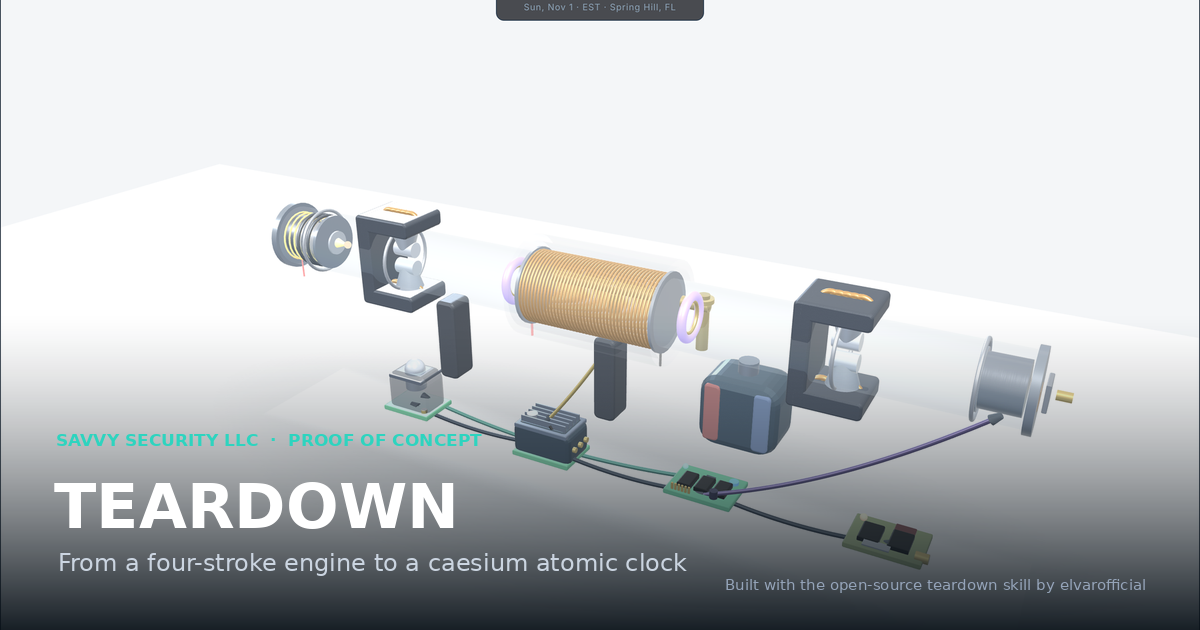
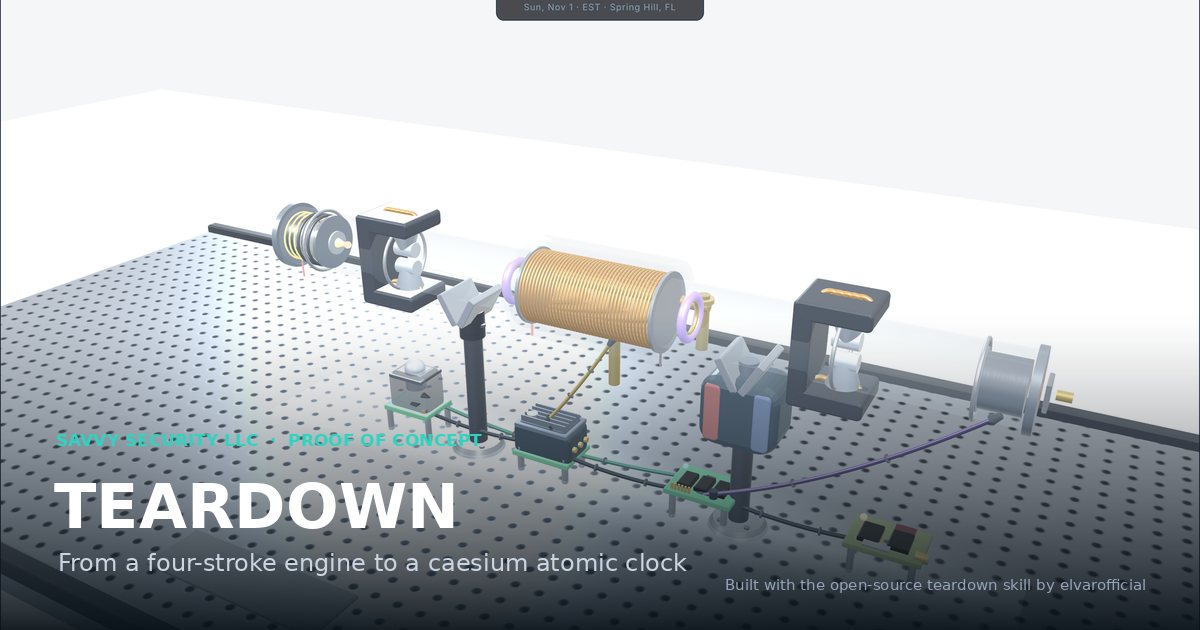
Architectural realism: optical bench, support frame, cabling, depth
Build out the structure the apparatus lives in, for real depth and
architectural realism:

- Aluminium optical breadboard (tapped-hole grid as colour + bump map)
  on a light room floor, with anodised edge rails
- Kinematic support towers: foot plate + bolts, post, post-holder and a
  V-saddle cradling the beam tube — replacing the old floating stands.
  They are fixtures, so parts lift out of them in the exploded view
- Hex standoff feet lifting each electronics module off the board
- Hex-head bolt detail on the vacuum end flanges
- Cable ties clamping every coax run at intervals
- Engraved spec nameplate on the bench
- Softer far fog for aerial depth without darkening the white backdrop
- Re-rendered all stills + OG cover; regenerated offline model + hosted
  standalone (verified offline, zero page errors)

Claude-Session: https://claude.ai/code/session_01YXoVwwxemi4SoJ6UT6wZSp

diff --git a/posts/teardown-engine-to-atomic-clock/code/atomic-clock-model.html b/posts/teardown-engine-to-atomic-clock/code/atomic-clock-model.html
@@ -343,7 +343,7 @@
   function build(){
     scene = new THREE.Scene();
     scene.background = new THREE.Color(0xf4f6f8);
-    scene.fog = new THREE.Fog(0xf4f6f8, 22, 48);
+    scene.fog = new THREE.Fog(0xf4f6f8, 26, 62);
     camera = new THREE.PerspectiveCamera(42,1,0.1,120);
     renderer = new THREE.WebGLRenderer({canvas:canvas, antialias:true, alpha:true});
     renderer.setClearColor(0xf4f6f8,1);
@@ -408,9 +408,8 @@
     var magB=mesh(rbox(0.2,0.9,0.95), MAT(0x2a3a5a,{metal:0.4,rough:0.5}),3.0,-1.3,0); root.add(magB);
     tag(magA,'vacuum','Pump magnets','Permanent magnets that spiral the ionising electrons, boosting the pump efficiency.');
     tag(magB,'vacuum','Pump magnets','Permanent magnets that spiral the ionising electrons, boosting the pump efficiency.');
-    var stA=mesh(rbox(0.3,1.4,0.5), MAT(0x2a2e34,{rough:0.6}),-3,-1.35,0); root.add(stA);
-    var stB=mesh(rbox(0.3,1.4,0.5), MAT(0x2a2e34,{rough:0.6}),0.2,-1.35,0); root.add(stB);
-    tag(stA,'vacuum','Support stand','Rigid stand isolating the tube from floor vibration.'); tag(stB,'vacuum','Support stand','Rigid stand isolating the tube from floor vibration.');
+    // kinematic support towers rising from the breadboard to cradle the beam tube
+    root.add(vmount(-2.6)); root.add(vmount(2.6));
     // flush weld collars where modules join the tube
     [-5.9,-4,4,5.9].forEach(function(cx){ var cc=mesh(new THREE.TorusGeometry(0.57,0.03,14,40), MAT(0x9aa0a8,{metal:0.8,rough:0.3}),cx,0,0); cc.rotation.y=Math.PI/2; root.add(cc); tag(cc,'vacuum','Weld collar','A vacuum-tight collar where a module joins the beam tube.'); });
 
@@ -436,9 +435,32 @@
     root.add(coax(6.2,-0.4,0.25, 2,-3,0.25, 0.5, 0x3a2f5a, 0.035));   // detector -> servo (signal)
     root.add(coax(2,-3,-0.25, -4,-3,-0.25, 0.55, 0x2f6a5a, 0.035));   // servo -> xo (correction)
 
-    // lab-bench floor
-    var floor=new THREE.Mesh(new THREE.PlaneGeometry(46,24), new THREE.MeshStandardMaterial({color:0xe9edf2, roughness:0.45, metalness:0.0, envMapIntensity:0.9}));
-    floor.rotation.x=-Math.PI/2; floor.position.set(0,-3.54,0); floor.receiveShadow=true; root.add(floor);
+    // ---- lab bench: aluminium optical breadboard on a room floor (architectural base) ----
+    var bbTex=breadboardTex(); bbTex.repeat.set(5,2);
+    var bbMat=new THREE.MeshStandardMaterial({color:0xccd1d8, metalness:1.0, roughness:0.44, map:bbTex, bumpMap:bbTex, bumpScale:0.006}); bbMat.envMapIntensity=0.7;
+    var bbTop=new THREE.Mesh(new THREE.PlaneGeometry(34,13), bbMat);
+    bbTop.rotation.x=-Math.PI/2; bbTop.position.set(0,-3.54,0); bbTop.receiveShadow=true; root.add(bbTop);
+    var bbBody=new THREE.Mesh(new THREE.BoxGeometry(34,0.55,13), steel({color:0xb3b9c1,rough:0.5,surface:'brushed'})); bbBody.position.set(0,-3.825,0); bbBody.receiveShadow=true; root.add(bbBody);
+    // edge rails along the long sides for a finished, machined look
+    [-6.4,6.4].forEach(function(cz){ var rail=new THREE.Mesh(rbox(34,0.28,0.3,0.06), anodized({color:0x2a2f37})); rail.position.set(0,-3.5,cz); root.add(rail); });
+    // room floor beneath, kept light so the background stays bright
+    var floor=new THREE.Mesh(new THREE.PlaneGeometry(80,46), new THREE.MeshStandardMaterial({color:0xeef1f5, roughness:0.5, metalness:0.0, envMapIntensity:0.6}));
+    floor.rotation.x=-Math.PI/2; floor.position.set(0,-4.12,0); floor.receiveShadow=true; root.add(floor);
+    // hex-bolt detail on the vacuum end flanges + engraved spec plate on the bench
+    [-6.6,6.6].forEach(function(fx){ for(var k=0;k<6;k++){ var a=k*Math.PI/3+0.4; root.add(hexBolt(fx, Math.cos(a)*0.5, Math.sin(a)*0.5, 0.05, 0x7a828c)); } });
+    (function(){ var pc=document.createElement('canvas'); pc.width=512; pc.height=128; var px=pc.getContext('2d');
+      px.fillStyle='#1a1d22'; px.fillRect(0,0,512,128); px.strokeStyle='#3a3f47'; px.lineWidth=4; px.strokeRect(4,4,504,120);
+      px.fillStyle='#e6edf5'; px.font='bold 52px Oswald, Arial, sans-serif'; px.textBaseline='middle';
+      px.fillText('CAESIUM BEAM FREQUENCY STANDARD', 24, 46);
+      px.fillStyle='#9fb3c6'; px.font='30px "JetBrains Mono", monospace';
+      px.fillText('Cs-133  ·  9 192 631 770 Hz  ·  SAVVY SECURITY', 24, 92);
+      var pt=new THREE.CanvasTexture(pc);
+      var plate=new THREE.Mesh(new THREE.PlaneGeometry(3.2,0.8), new THREE.MeshStandardMaterial({color:0xffffff, map:pt, metalness:0.1, roughness:0.6, envMapIntensity:0.25}));
+      plate.rotation.x=-Math.PI/2; plate.position.set(-3.4,-3.52,4.9); root.add(plate);
+      var frame=new THREE.Mesh(rbox(3.4,0.06,1.0,0.03), steel({color:0x8a9099})); frame.position.set(-3.4,-3.55,4.9); root.add(frame); })();
+    // hex standoff feet lifting each electronics module off the breadboard
+    [-4,-1,2,5].forEach(function(mx){ for(var c=0;c<4;c++){ var sx=mx+(c<2?-0.46:0.46), sz=(c%2?0.3:-0.3);
+      root.add(mesh(new THREE.CylinderGeometry(0.06,0.06,0.5,6), steel({color:0x9298a0,rough:0.35}), sx,-3.3,sz)); }});
     // faint occlusion blob to seat the assembly, under the real cast shadow
     var shc=document.createElement('canvas'); shc.width=shc.height=256; var sx=shc.getContext('2d');
     var sg=sx.createRadialGradient(128,128,8,128,128,128); sg.addColorStop(0,'rgba(18,28,38,0.36)'); sg.addColorStop(0.7,'rgba(18,28,38,0.12)'); sg.addColorStop(1,'rgba(18,28,38,0)');
@@ -530,12 +552,50 @@
     var mid=a.clone().add(b).multiplyScalar(0.5); mid.y -= (sag==null?0.3:sag);
     var curve=new THREE.QuadraticBezierCurve3(a,mid,b);
     var grp=new THREE.Group();
-    grp.add(new THREE.Mesh(new THREE.TubeGeometry(curve,30,r,14,false), MAT(color,{metal:0.6,rough:0.3})));  // braided sheen
+    grp.add(new THREE.Mesh(new THREE.TubeGeometry(curve,36,r,16,false), MAT(color,{metal:0.6,rough:0.3,surface:'brushed'})));  // braided sheen
     var up=new THREE.Vector3(0,1,0), bm=MAT(0x12161b,{metal:0.4,rough:0.5});
     function boot(pt,dir){ var m=new THREE.Mesh(new THREE.CylinderGeometry(r*2.2,r*1.3,0.16,16), bm); m.position.copy(pt); m.quaternion.setFromUnitVectors(up, dir.clone().normalize()); grp.add(m); }
     boot(a, mid.clone().sub(a)); boot(b, b.clone().sub(mid));
+    // nylon cable ties clamping the run at intervals
+    var tieM=MAT(0x15181d,{metal:0.1,rough:0.6});
+    [0.34,0.66].forEach(function(t){ var p=curve.getPointAt(t), tg=curve.getTangentAt(t);
+      var tie=new THREE.Mesh(new THREE.TorusGeometry(r*1.5,r*0.5,10,18), tieM); tie.position.copy(p);
+      tie.quaternion.setFromUnitVectors(new THREE.Vector3(0,0,1), tg.clone().normalize()); grp.add(tie); });
     return grp;
   }
+
+  // ===== architectural fixtures (never tagged -> stay fixed while parts explode) =====
+  // aluminium optical breadboard: a tapped-hole grid, used as colour + bump map
+  var _bbTex=null;
+  function breadboardTex(){ if(_bbTex) return _bbTex;
+    var c=document.createElement('canvas'); c.width=c.height=1024; var x=c.getContext('2d');
+    x.fillStyle='#d7dbe1'; x.fillRect(0,0,1024,1024);
+    x.globalAlpha=0.045; x.strokeStyle='#ffffff';
+    for(var s=0;s<360;s++){ var y=Math.random()*1024; x.beginPath(); x.moveTo(0,y); x.lineTo(1024,y+(Math.random()-0.5)*2.5); x.stroke(); }
+    x.globalAlpha=1;
+    var pitch=64, R=15;
+    for(var gy=pitch/2; gy<1024; gy+=pitch){ for(var gx=pitch/2; gx<1024; gx+=pitch){
+      var rg=x.createRadialGradient(gx-2,gy-2,1,gx,gy,R+3);
+      rg.addColorStop(0,'#24272c'); rg.addColorStop(0.5,'#373b41'); rg.addColorStop(0.72,'#c3c7cd'); rg.addColorStop(1,'rgba(215,219,225,0)');
+      x.fillStyle=rg; x.beginPath(); x.arc(gx,gy,R+3,0,6.2831); x.fill();
+      x.fillStyle='#15171a'; x.beginPath(); x.arc(gx,gy,R*0.5,0,6.2831); x.fill();
+    }}
+    _bbTex=new THREE.CanvasTexture(c); _bbTex.wrapS=_bbTex.wrapT=THREE.RepeatWrapping; return _bbTex; }
+  // a hex-head bolt (cap + optional shank)
+  function hexBolt(x,y,z,rad,col){ var g=new THREE.Group();
+    var head=new THREE.Mesh(new THREE.CylinderGeometry(rad,rad,rad*0.9,6), steel({color:col||0x6c7682,rough:0.34}));
+    head.position.set(x,y,z); g.add(head); return head; }
+  // a kinematic post + V-saddle that cradles the beam tube, rising from the breadboard
+  function vmount(x){ var grp=new THREE.Group();
+    grp.add(mesh(new THREE.CylinderGeometry(0.42,0.5,0.14,28), steel({color:0x878e97,rough:0.34}), x,-3.46,0));     // foot plate
+    for(var bi=0;bi<4;bi++){ var a=bi*Math.PI/2+0.78; grp.add(hexBolt(x+Math.cos(a)*0.33,-3.38,Math.sin(a)*0.33,0.05,0x5a626c)); }
+    grp.add(mesh(new THREE.CylinderGeometry(0.17,0.17,2.5,28), MAT(0x30353d,{metal:0.9,rough:0.34,surface:'brushed'}), x,-2.2,0)); // post
+    grp.add(mesh(new THREE.CylinderGeometry(0.23,0.23,0.5,28), anodized({color:0x262b32}), x,-1.0,0));               // post holder
+    grp.add(hexBolt(x+0.23,-1.0,0,0.055,0x3a3f47));                                                                   // locking screw
+    var padM=steel({color:0x9aa1aa,rough:0.28});
+    var pl=mesh(rbox(0.1,0.58,0.9),padM,x-0.2,-0.63,0); pl.rotation.z= 0.52; grp.add(pl);                            // V pad L
+    var pr=mesh(rbox(0.1,0.58,0.9),padM,x+0.2,-0.63,0); pr.rotation.z=-0.52; grp.add(pr);                            // V pad R
+    return grp; }
 
   function ovenUnit(ck){ var g=new THREE.Group();
     // outer wall — semi-transparent so the crucible inside is visible

diff --git a/posts/teardown-engine-to-atomic-clock/code/atomic-clock.html b/posts/teardown-engine-to-atomic-clock/code/atomic-clock.html
@@ -337,7 +337,7 @@
   function build(){
     scene = new THREE.Scene();
     scene.background = new THREE.Color(0xf4f6f8);
-    scene.fog = new THREE.Fog(0xf4f6f8, 22, 48);
+    scene.fog = new THREE.Fog(0xf4f6f8, 26, 62);
     camera = new THREE.PerspectiveCamera(42,1,0.1,120);
     renderer = new THREE.WebGLRenderer({canvas:canvas, antialias:true, alpha:true});
     renderer.setClearColor(0xf4f6f8,1);
@@ -402,9 +402,8 @@
     var magB=mesh(rbox(0.2,0.9,0.95), MAT(0x2a3a5a,{metal:0.4,rough:0.5}),3.0,-1.3,0); root.add(magB);
     tag(magA,'vacuum','Pump magnets','Permanent magnets that spiral the ionising electrons, boosting the pump efficiency.');
     tag(magB,'vacuum','Pump magnets','Permanent magnets that spiral the ionising electrons, boosting the pump efficiency.');
-    var stA=mesh(rbox(0.3,1.4,0.5), MAT(0x2a2e34,{rough:0.6}),-3,-1.35,0); root.add(stA);
-    var stB=mesh(rbox(0.3,1.4,0.5), MAT(0x2a2e34,{rough:0.6}),0.2,-1.35,0); root.add(stB);
-    tag(stA,'vacuum','Support stand','Rigid stand isolating the tube from floor vibration.'); tag(stB,'vacuum','Support stand','Rigid stand isolating the tube from floor vibration.');
+    // kinematic support towers rising from the breadboard to cradle the beam tube
+    root.add(vmount(-2.6)); root.add(vmount(2.6));
     // flush weld collars where modules join the tube
     [-5.9,-4,4,5.9].forEach(function(cx){ var cc=mesh(new THREE.TorusGeometry(0.57,0.03,14,40), MAT(0x9aa0a8,{metal:0.8,rough:0.3}),cx,0,0); cc.rotation.y=Math.PI/2; root.add(cc); tag(cc,'vacuum','Weld collar','A vacuum-tight collar where a module joins the beam tube.'); });
 
@@ -430,9 +429,32 @@
     root.add(coax(6.2,-0.4,0.25, 2,-3,0.25, 0.5, 0x3a2f5a, 0.035));   // detector -> servo (signal)
     root.add(coax(2,-3,-0.25, -4,-3,-0.25, 0.55, 0x2f6a5a, 0.035));   // servo -> xo (correction)
 
-    // lab-bench floor
-    var floor=new THREE.Mesh(new THREE.PlaneGeometry(46,24), new THREE.MeshStandardMaterial({color:0xe9edf2, roughness:0.45, metalness:0.0, envMapIntensity:0.9}));
-    floor.rotation.x=-Math.PI/2; floor.position.set(0,-3.54,0); floor.receiveShadow=true; root.add(floor);
+    // ---- lab bench: aluminium optical breadboard on a room floor (architectural base) ----
+    var bbTex=breadboardTex(); bbTex.repeat.set(5,2);
+    var bbMat=new THREE.MeshStandardMaterial({color:0xccd1d8, metalness:1.0, roughness:0.44, map:bbTex, bumpMap:bbTex, bumpScale:0.006}); bbMat.envMapIntensity=0.7;
+    var bbTop=new THREE.Mesh(new THREE.PlaneGeometry(34,13), bbMat);
+    bbTop.rotation.x=-Math.PI/2; bbTop.position.set(0,-3.54,0); bbTop.receiveShadow=true; root.add(bbTop);
+    var bbBody=new THREE.Mesh(new THREE.BoxGeometry(34,0.55,13), steel({color:0xb3b9c1,rough:0.5,surface:'brushed'})); bbBody.position.set(0,-3.825,0); bbBody.receiveShadow=true; root.add(bbBody);
+    // edge rails along the long sides for a finished, machined look
+    [-6.4,6.4].forEach(function(cz){ var rail=new THREE.Mesh(rbox(34,0.28,0.3,0.06), anodized({color:0x2a2f37})); rail.position.set(0,-3.5,cz); root.add(rail); });
+    // room floor beneath, kept light so the background stays bright
+    var floor=new THREE.Mesh(new THREE.PlaneGeometry(80,46), new THREE.MeshStandardMaterial({color:0xeef1f5, roughness:0.5, metalness:0.0, envMapIntensity:0.6}));
+    floor.rotation.x=-Math.PI/2; floor.position.set(0,-4.12,0); floor.receiveShadow=true; root.add(floor);
+    // hex-bolt detail on the vacuum end flanges + engraved spec plate on the bench
+    [-6.6,6.6].forEach(function(fx){ for(var k=0;k<6;k++){ var a=k*Math.PI/3+0.4; root.add(hexBolt(fx, Math.cos(a)*0.5, Math.sin(a)*0.5, 0.05, 0x7a828c)); } });
+    (function(){ var pc=document.createElement('canvas'); pc.width=512; pc.height=128; var px=pc.getContext('2d');
+      px.fillStyle='#1a1d22'; px.fillRect(0,0,512,128); px.strokeStyle='#3a3f47'; px.lineWidth=4; px.strokeRect(4,4,504,120);
+      px.fillStyle='#e6edf5'; px.font='bold 52px Oswald, Arial, sans-serif'; px.textBaseline='middle';
+      px.fillText('CAESIUM BEAM FREQUENCY STANDARD', 24, 46);
+      px.fillStyle='#9fb3c6'; px.font='30px "JetBrains Mono", monospace';
+      px.fillText('Cs-133  ·  9 192 631 770 Hz  ·  SAVVY SECURITY', 24, 92);
+      var pt=new THREE.CanvasTexture(pc);
+      var plate=new THREE.Mesh(new THREE.PlaneGeometry(3.2,0.8), new THREE.MeshStandardMaterial({color:0xffffff, map:pt, metalness:0.1, roughness:0.6, envMapIntensity:0.25}));
+      plate.rotation.x=-Math.PI/2; plate.position.set(-3.4,-3.52,4.9); root.add(plate);
+      var frame=new THREE.Mesh(rbox(3.4,0.06,1.0,0.03), steel({color:0x8a9099})); frame.position.set(-3.4,-3.55,4.9); root.add(frame); })();
+    // hex standoff feet lifting each electronics module off the breadboard
+    [-4,-1,2,5].forEach(function(mx){ for(var c=0;c<4;c++){ var sx=mx+(c<2?-0.46:0.46), sz=(c%2?0.3:-0.3);
+      root.add(mesh(new THREE.CylinderGeometry(0.06,0.06,0.5,6), steel({color:0x9298a0,rough:0.35}), sx,-3.3,sz)); }});
     // faint occlusion blob to seat the assembly, under the real cast shadow
     var shc=document.createElement('canvas'); shc.width=shc.height=256; var sx=shc.getContext('2d');
     var sg=sx.createRadialGradient(128,128,8,128,128,128); sg.addColorStop(0,'rgba(18,28,38,0.36)'); sg.addColorStop(0.7,'rgba(18,28,38,0.12)'); sg.addColorStop(1,'rgba(18,28,38,0)');
@@ -524,12 +546,50 @@
     var mid=a.clone().add(b).multiplyScalar(0.5); mid.y -= (sag==null?0.3:sag);
     var curve=new THREE.QuadraticBezierCurve3(a,mid,b);
     var grp=new THREE.Group();
-    grp.add(new THREE.Mesh(new THREE.TubeGeometry(curve,30,r,14,false), MAT(color,{metal:0.6,rough:0.3})));  // braided sheen
+    grp.add(new THREE.Mesh(new THREE.TubeGeometry(curve,36,r,16,false), MAT(color,{metal:0.6,rough:0.3,surface:'brushed'})));  // braided sheen
     var up=new THREE.Vector3(0,1,0), bm=MAT(0x12161b,{metal:0.4,rough:0.5});
     function boot(pt,dir){ var m=new THREE.Mesh(new THREE.CylinderGeometry(r*2.2,r*1.3,0.16,16), bm); m.position.copy(pt); m.quaternion.setFromUnitVectors(up, dir.clone().normalize()); grp.add(m); }
     boot(a, mid.clone().sub(a)); boot(b, b.clone().sub(mid));
+    // nylon cable ties clamping the run at intervals
+    var tieM=MAT(0x15181d,{metal:0.1,rough:0.6});
+    [0.34,0.66].forEach(function(t){ var p=curve.getPointAt(t), tg=curve.getTangentAt(t);
+      var tie=new THREE.Mesh(new THREE.TorusGeometry(r*1.5,r*0.5,10,18), tieM); tie.position.copy(p);
+      tie.quaternion.setFromUnitVectors(new THREE.Vector3(0,0,1), tg.clone().normalize()); grp.add(tie); });
     return grp;
   }
+
+  // ===== architectural fixtures (never tagged -> stay fixed while parts explode) =====
+  // aluminium optical breadboard: a tapped-hole grid, used as colour + bump map
+  var _bbTex=null;
+  function breadboardTex(){ if(_bbTex) return _bbTex;
+    var c=document.createElement('canvas'); c.width=c.height=1024; var x=c.getContext('2d');
+    x.fillStyle='#d7dbe1'; x.fillRect(0,0,1024,1024);
+    x.globalAlpha=0.045; x.strokeStyle='#ffffff';
+    for(var s=0;s<360;s++){ var y=Math.random()*1024; x.beginPath(); x.moveTo(0,y); x.lineTo(1024,y+(Math.random()-0.5)*2.5); x.stroke(); }
+    x.globalAlpha=1;
+    var pitch=64, R=15;
+    for(var gy=pitch/2; gy<1024; gy+=pitch){ for(var gx=pitch/2; gx<1024; gx+=pitch){
+      var rg=x.createRadialGradient(gx-2,gy-2,1,gx,gy,R+3);
+      rg.addColorStop(0,'#24272c'); rg.addColorStop(0.5,'#373b41'); rg.addColorStop(0.72,'#c3c7cd'); rg.addColorStop(1,'rgba(215,219,225,0)');
+      x.fillStyle=rg; x.beginPath(); x.arc(gx,gy,R+3,0,6.2831); x.fill();
+      x.fillStyle='#15171a'; x.beginPath(); x.arc(gx,gy,R*0.5,0,6.2831); x.fill();
+    }}
+    _bbTex=new THREE.CanvasTexture(c); _bbTex.wrapS=_bbTex.wrapT=THREE.RepeatWrapping; return _bbTex; }
+  // a hex-head bolt (cap + optional shank)
+  function hexBolt(x,y,z,rad,col){ var g=new THREE.Group();
+    var head=new THREE.Mesh(new THREE.CylinderGeometry(rad,rad,rad*0.9,6), steel({color:col||0x6c7682,rough:0.34}));
+    head.position.set(x,y,z); g.add(head); return head; }
+  // a kinematic post + V-saddle that cradles the beam tube, rising from the breadboard
+  function vmount(x){ var grp=new THREE.Group();
+    grp.add(mesh(new THREE.CylinderGeometry(0.42,0.5,0.14,28), steel({color:0x878e97,rough:0.34}), x,-3.46,0));     // foot plate
+    for(var bi=0;bi<4;bi++){ var a=bi*Math.PI/2+0.78; grp.add(hexBolt(x+Math.cos(a)*0.33,-3.38,Math.sin(a)*0.33,0.05,0x5a626c)); }
+    grp.add(mesh(new THREE.CylinderGeometry(0.17,0.17,2.5,28), MAT(0x30353d,{metal:0.9,rough:0.34,surface:'brushed'}), x,-2.2,0)); // post
+    grp.add(mesh(new THREE.CylinderGeometry(0.23,0.23,0.5,28), anodized({color:0x262b32}), x,-1.0,0));               // post holder
+    grp.add(hexBolt(x+0.23,-1.0,0,0.055,0x3a3f47));                                                                   // locking screw
+    var padM=steel({color:0x9aa1aa,rough:0.28});
+    var pl=mesh(rbox(0.1,0.58,0.9),padM,x-0.2,-0.63,0); pl.rotation.z= 0.52; grp.add(pl);                            // V pad L
+    var pr=mesh(rbox(0.1,0.58,0.9),padM,x+0.2,-0.63,0); pr.rotation.z=-0.52; grp.add(pr);                            // V pad R
+    return grp; }
 
   function ovenUnit(ck){ var g=new THREE.Group();
     // outer wall — semi-transparent so the crucible inside is visible
